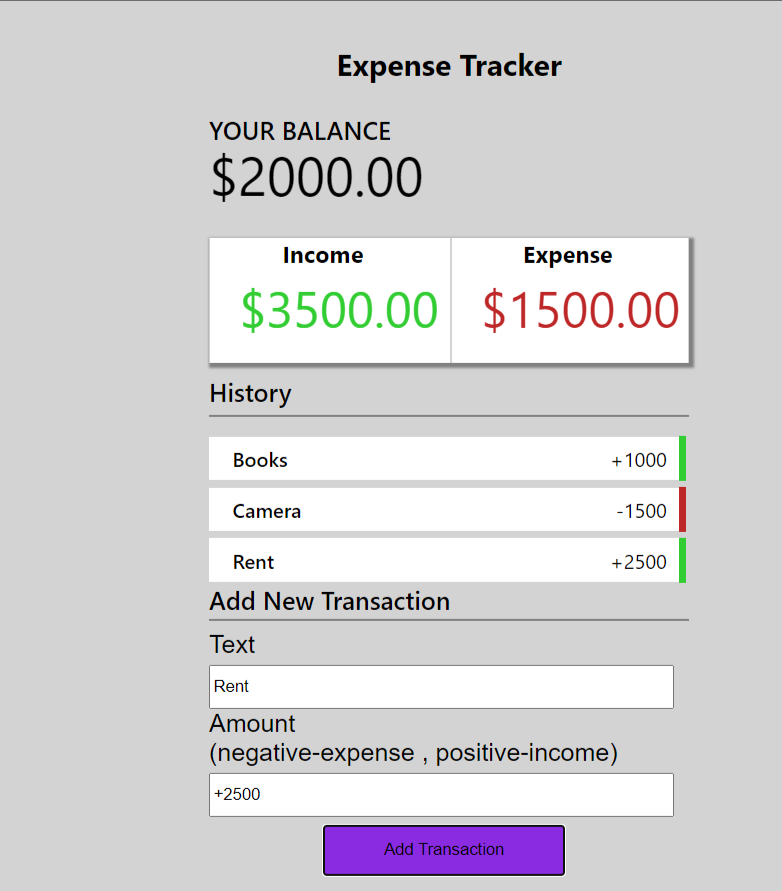
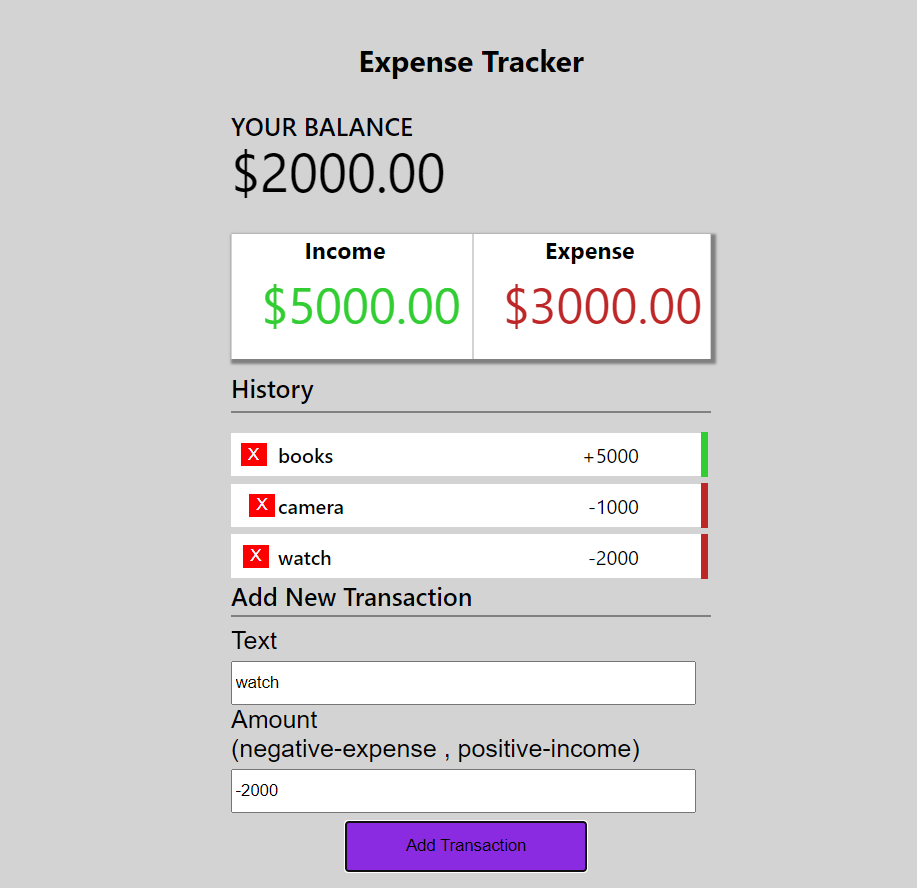
added Delete function

Changed region(s): [[0.2455, 0.1216, 0.89, 0.9426], [0.3683, 0.9122, 0.7366, 1.0], [0.3683, 0.0608, 0.7366, 0.0912]]

diff --git a/README.md b/README.md
@@ -1,5 +1,70 @@
-# Expense-Tracker-App
+# Getting Started with Create React App
 
-<a href = "https://fabulous-valkyrie-d671ec.netlify.app/">Live Link</a>
+This project was bootstrapped with [Create React App](https://github.com/facebook/create-react-app).
 
-<img style = "height: 250px , width: 250px" src = "img.png">
+## Available Scripts
+
+In the project directory, you can run:
+
+### `npm start`
+
+Runs the app in the development mode.\
+Open [http://localhost:3000](http://localhost:3000) to view it in your browser.
+
+The page will reload when you make changes.\
+You may also see any lint errors in the console.
+
+### `npm test`
+
+Launches the test runner in the interactive watch mode.\
+See the section about [running tests](https://facebook.github.io/create-react-app/docs/running-tests) for more information.
+
+### `npm run build`
+
+Builds the app for production to the `build` folder.\
+It correctly bundles React in production mode and optimizes the build for the best performance.
+
+The build is minified and the filenames include the hashes.\
+Your app is ready to be deployed!
+
+See the section about [deployment](https://facebook.github.io/create-react-app/docs/deployment) for more information.
+
+### `npm run eject`
+
+**Note: this is a one-way operation. Once you `eject`, you can't go back!**
+
+If you aren't satisfied with the build tool and configuration choices, you can `eject` at any time. This command will remove the single build dependency from your project.
+
+Instead, it will copy all the configuration files and the transitive dependencies (webpack, Babel, ESLint, etc) right into your project so you have full control over them. All of the commands except `eject` will still work, but they will point to the copied scripts so you can tweak them. At this point you're on your own.
+
+You don't have to ever use `eject`. The curated feature set is suitable for small and middle deployments, and you shouldn't feel obligated to use this feature. However we understand that this tool wouldn't be useful if you couldn't customize it when you are ready for it.
+
+## Learn More
+
+You can learn more in the [Create React App documentation](https://facebook.github.io/create-react-app/docs/getting-started).
+
+To learn React, check out the [React documentation](https://reactjs.org/).
+
+### Code Splitting
+
+This section has moved here: [https://facebook.github.io/create-react-app/docs/code-splitting](https://facebook.github.io/create-react-app/docs/code-splitting)
+
+### Analyzing the Bundle Size
+
+This section has moved here: [https://facebook.github.io/create-react-app/docs/analyzing-the-bundle-size](https://facebook.github.io/create-react-app/docs/analyzing-the-bundle-size)
+
+### Making a Progressive Web App
+
+This section has moved here: [https://facebook.github.io/create-react-app/docs/making-a-progressive-web-app](https://facebook.github.io/create-react-app/docs/making-a-progressive-web-app)
+
+### Advanced Configuration
+
+This section has moved here: [https://facebook.github.io/create-react-app/docs/advanced-configuration](https://facebook.github.io/create-react-app/docs/advanced-configuration)
+
+### Deployment
+
+This section has moved here: [https://facebook.github.io/create-react-app/docs/deployment](https://facebook.github.io/create-react-app/docs/deployment)
+
+### `npm run build` fails to minify
+
+This section has moved here: [https://facebook.github.io/create-react-app/docs/troubleshooting#npm-run-build-fails-to-minify](https://facebook.github.io/create-react-app/docs/troubleshooting#npm-run-build-fails-to-minify)
